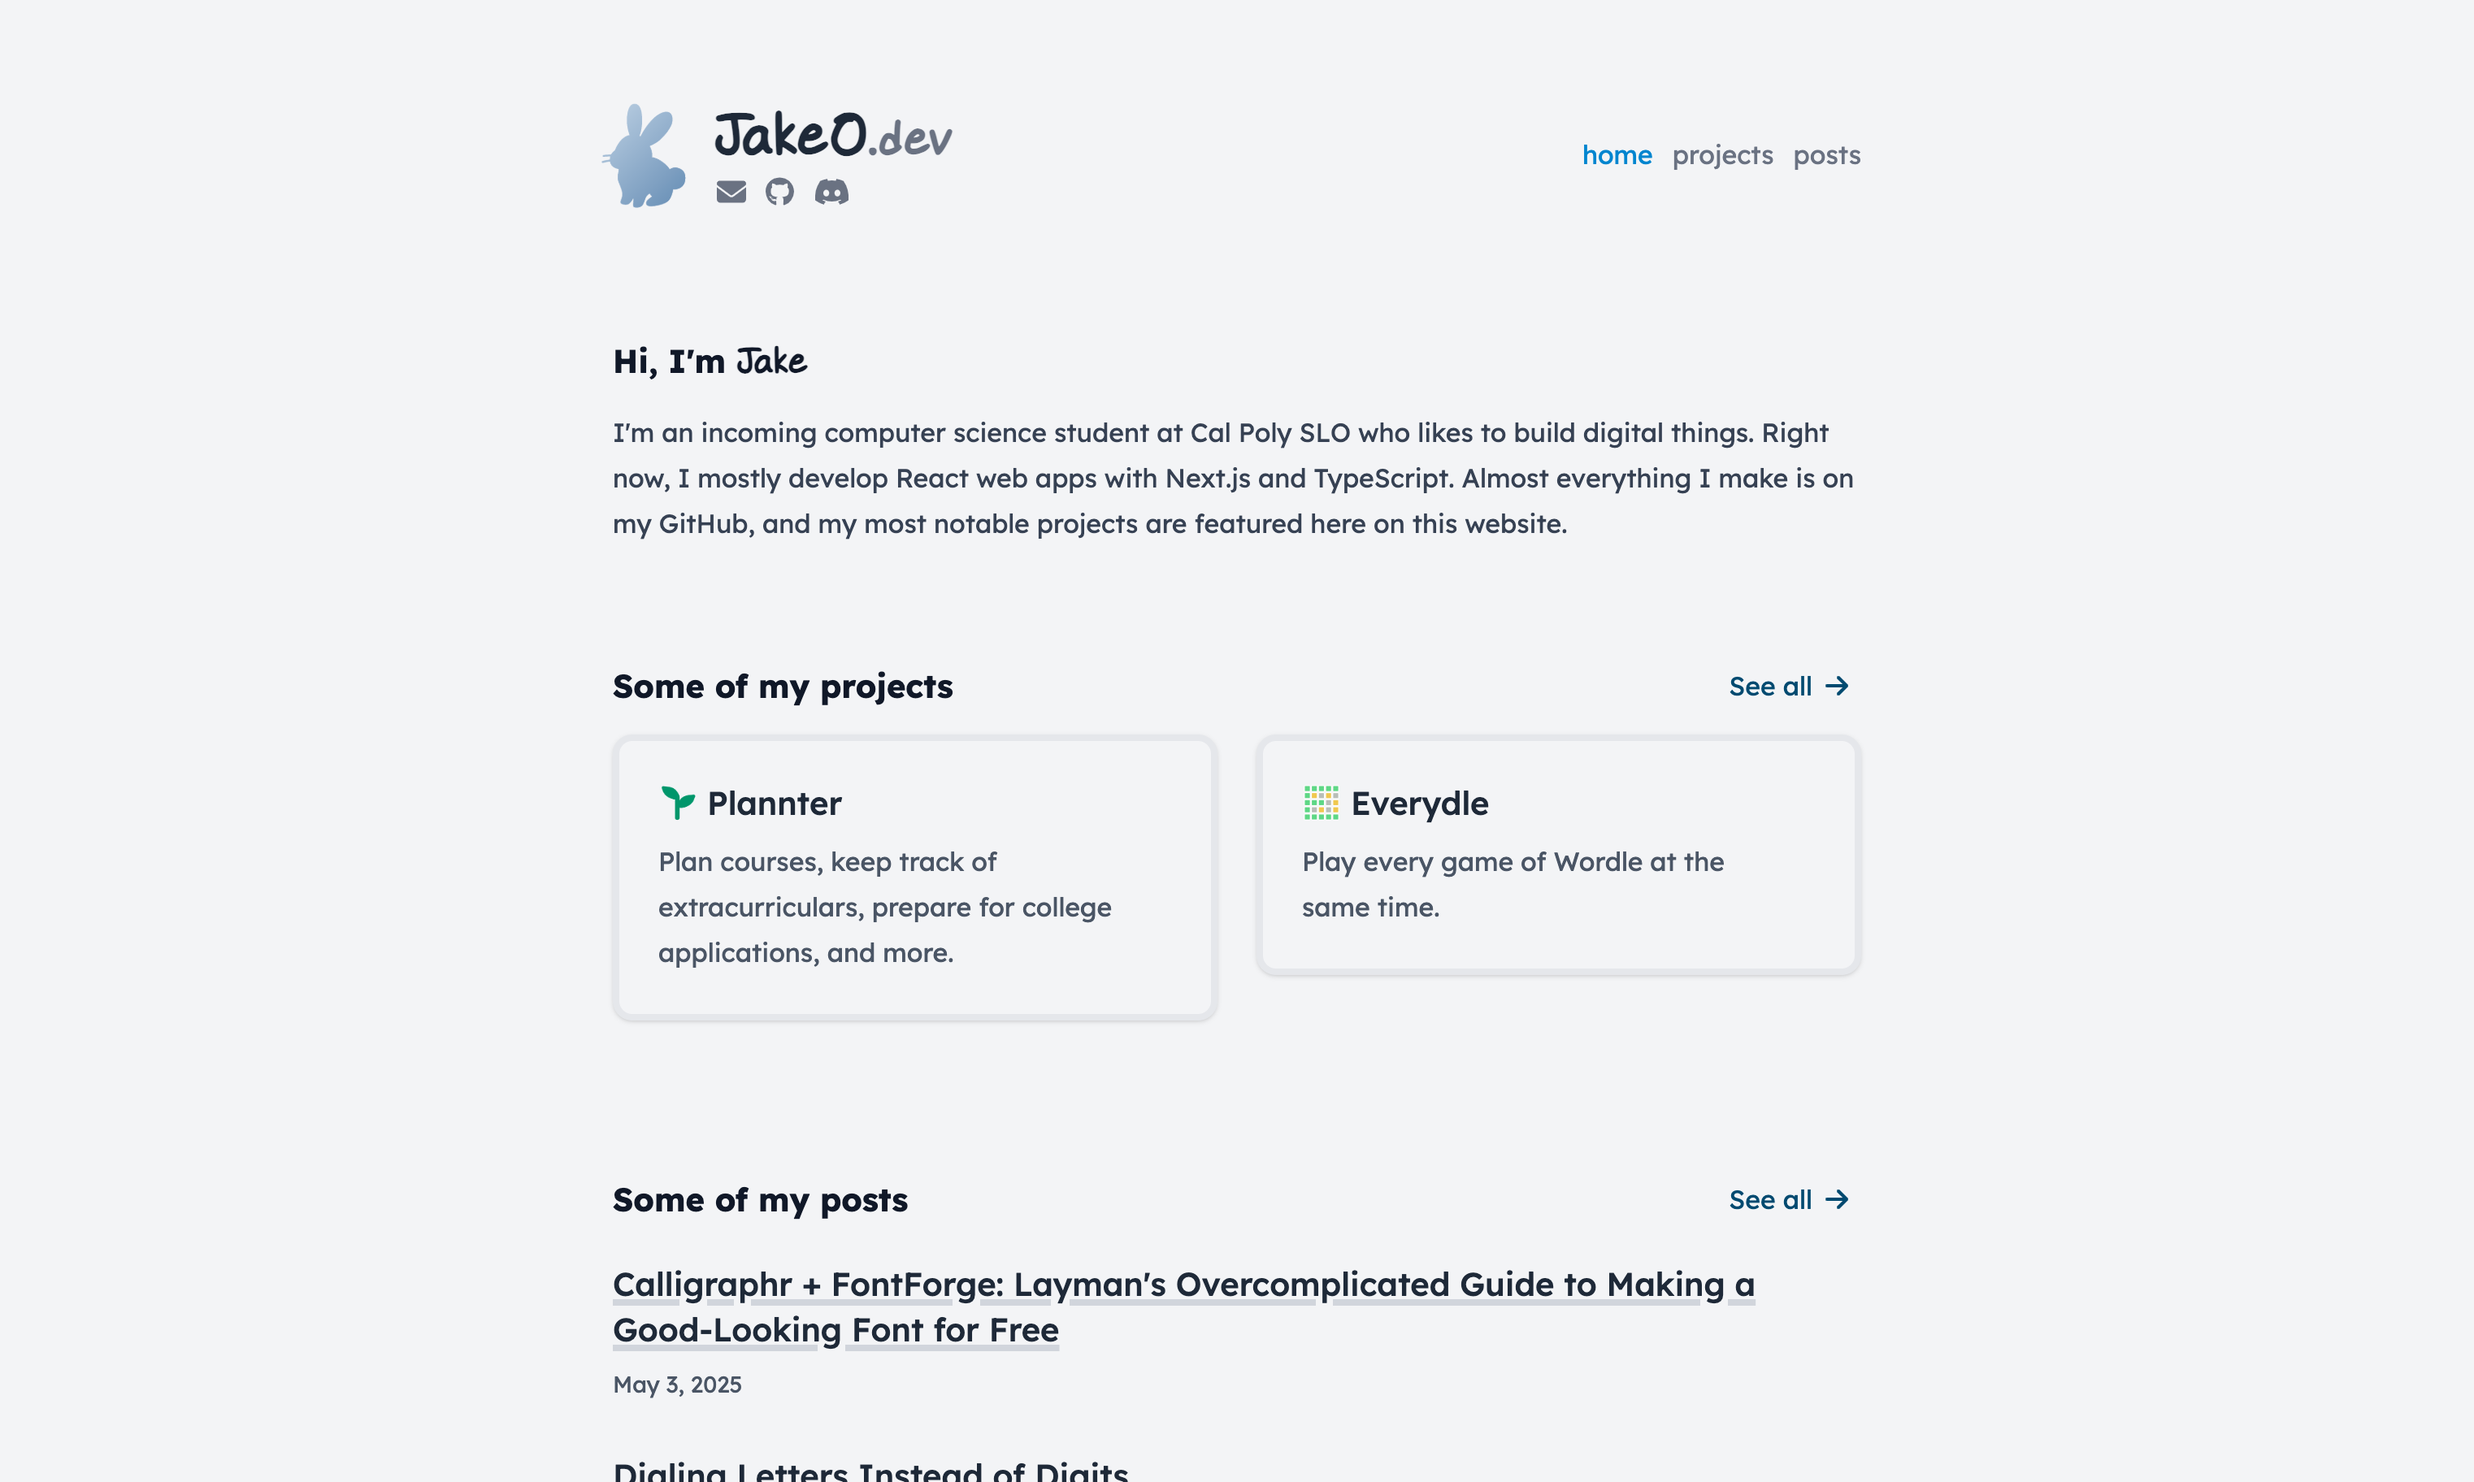
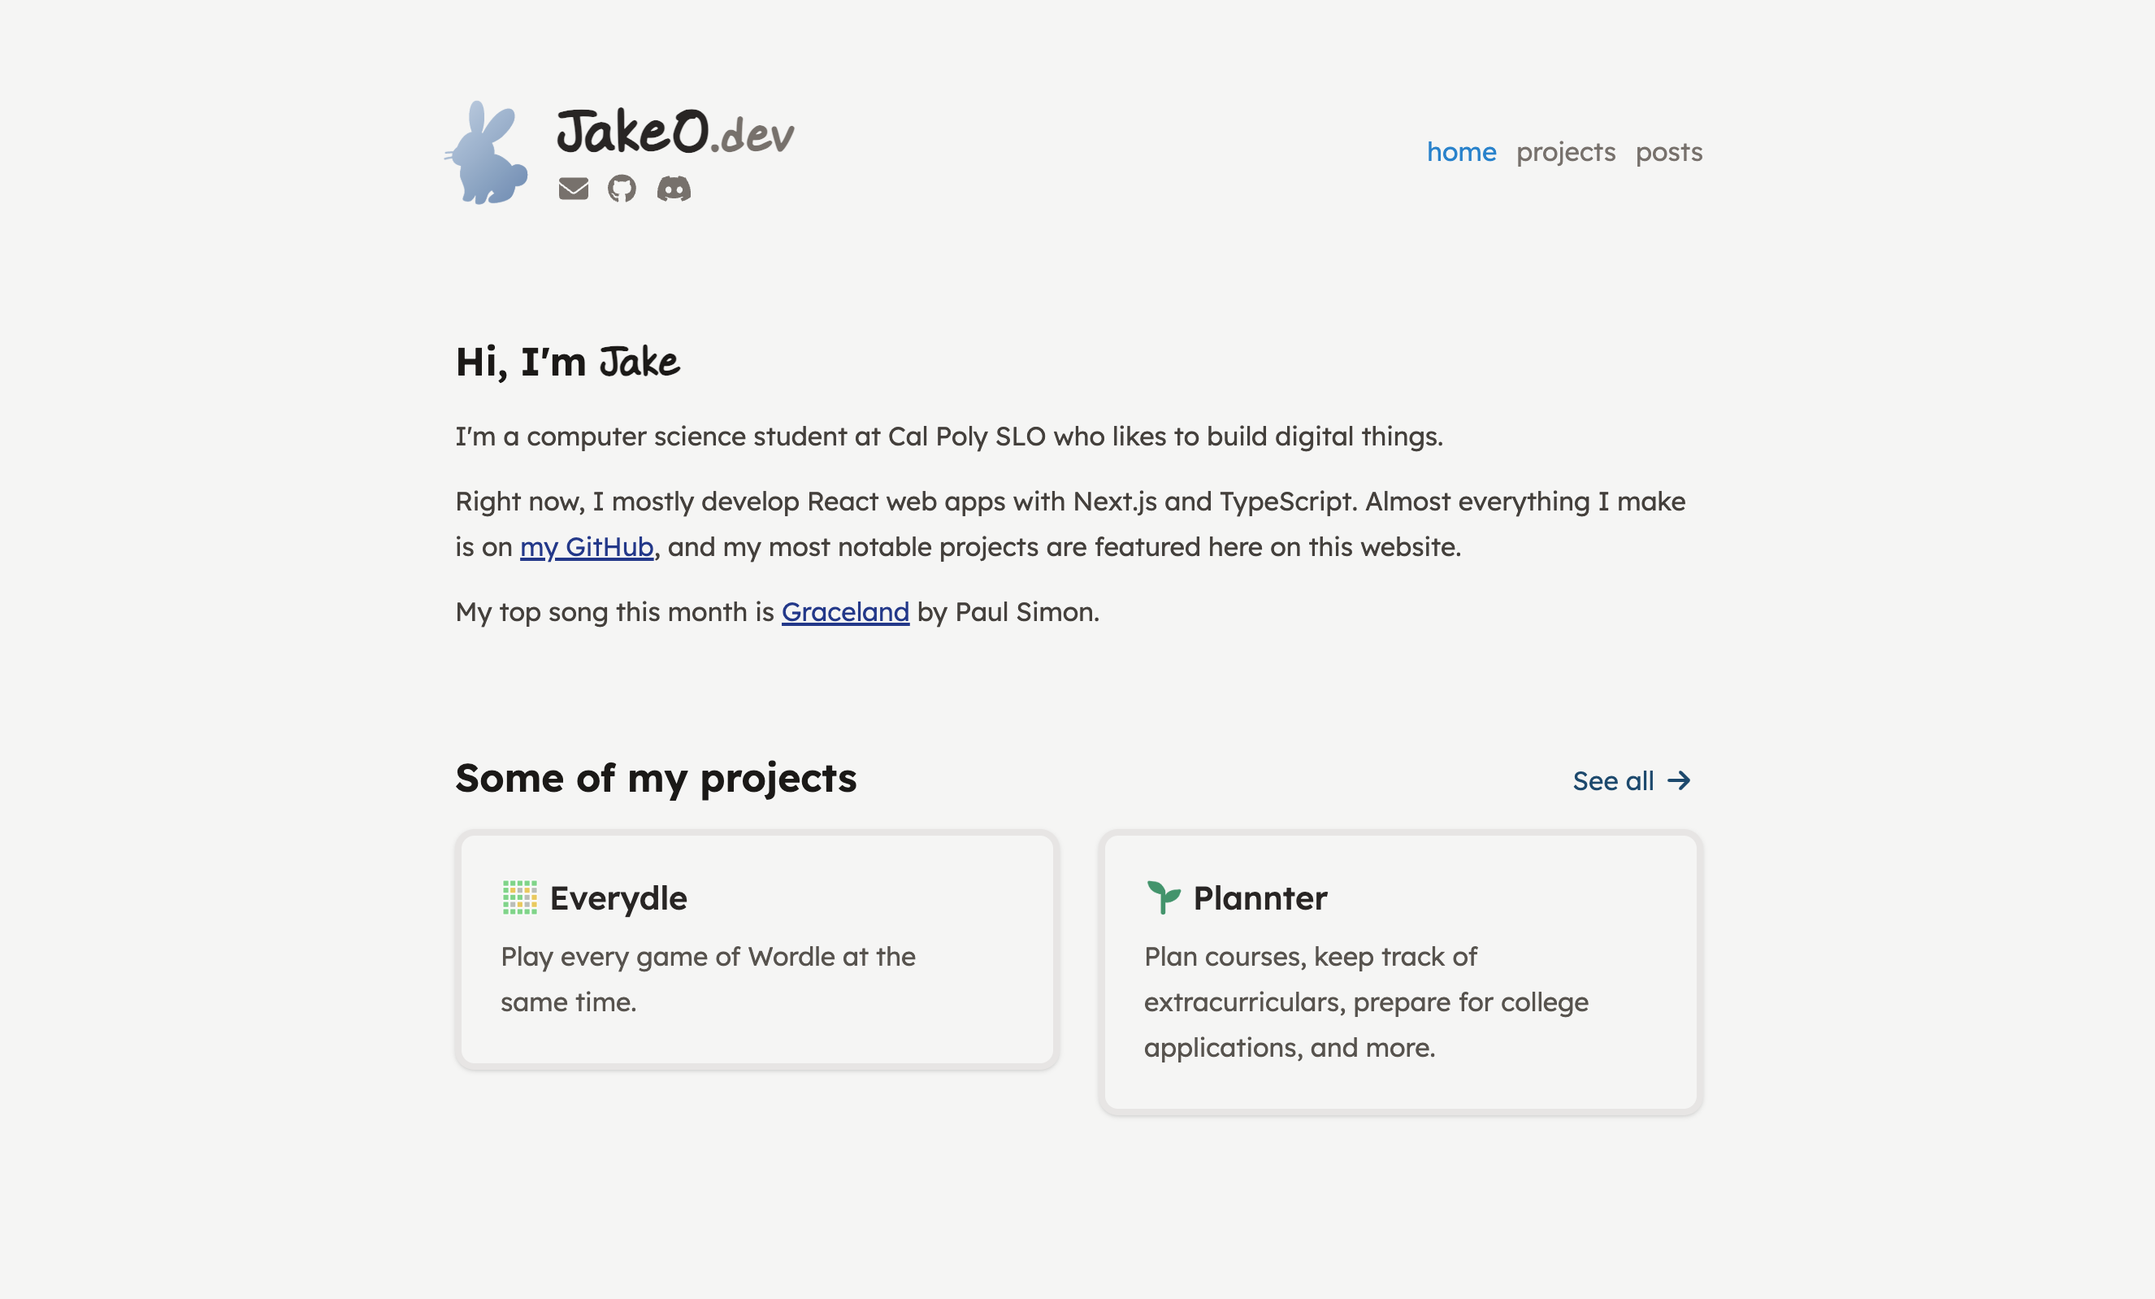
minor design improvements

diff --git a/src/pages/index.tsx b/src/pages/index.tsx
@@ -1,6 +1,5 @@
 import CommonHead from "@/components/CommonHead";
 import Project from "@/components/projects/Project";
-import Post from "@/components/blog/Post";
 import Link from "next/link";
 import TopTrack from "@/components/TopTrack";
 
@@ -66,7 +65,7 @@ export default function Home() {
         <h1>Some of my projects</h1>
         <Link
           href="/projects"
-          className="text internal-link ml-auto px-2 text-sm font-normal no-underline md:text-base"
+          className="text internal-link ml-auto px-2 text-sm no-underline md:text-base"
         >
           <span>See all</span>
           <FontAwesomeIcon icon={faArrowRight} className="ml-2" />
@@ -96,42 +95,6 @@ export default function Home() {
           />
         </div>
       </div>
-
-      {/* posts */}
-      <div className="sub0title flex items-center md:items-end">
-        <h1>Some of my posts</h1>
-        <Link
-          href="/blog"
-          className="text internal-link ml-auto px-2 text-sm font-normal no-underline md:text-base"
-        >
-          <span>See all</span>
-          <FontAwesomeIcon icon={faArrowRight} className="ml-2" />
-        </Link>
-      </div>
-
-      <Post
-        name="Calligraphr + FontForge: Layman's Overcomplicated Guide to Making a Good-Looking Font for Free"
-        desc={`In December 2024, I designed a typeface based on my handwriting using both Calligraphr and FontForge. Calligraphr is a great service that lets you create your own font, but it's really only useful if you upgrade to the Pro version. So instead of spending...`}
-        releaseDate="May 3, 2025"
-        updateDate=""
-        fadeDesc={true}
-        img={require("/public/images/calligraphr-fontforge-laymans-overcomplicated-guide-to-making-a-good-looking-font-for-free/thumbnail.png")}
-        imgAlt="Different letters in different fonts kerned at different amounts"
-        showImg={false}
-        href="/blog/calligraphr-fontforge-laymans-overcomplicated-guide-to-making-a-good-looking-font-for-free"
-      />
-
-      <Post
-        name="Dialing Letters Instead of Digits"
-        desc={`In February 2023, I introduced the first iteration of Cifra, my website that generates as many vanity phone numbers that match an inputted phone number as fast as possible. Over the past year and a half, I've found different ways to improve the efficiency and...`}
-        releaseDate="August 18, 2024"
-        updateDate=""
-        fadeDesc={true}
-        img={require("/public/images/dialing-letters-instead-of-digits/thumbnail.png")}
-        imgAlt="Overlapping lists of random words and numbers"
-        showImg={false}
-        href="/blog/dialing-letters-instead-of-digits"
-      />
     </>
   );
 }

diff --git a/src/styles/globals.css b/src/styles/globals.css
@@ -2,27 +2,27 @@
 
 @layer components {
   .sub0title {
-    @apply mt-14 py-4 text-left text-2xl font-bold text-pretty text-stone-900;
+    @apply mt-14 py-4 text-left text-2xl font-semibold text-pretty text-stone-900;
   }
 
   .sub1title {
-    @apply mt-14 py-4 text-left text-2xl font-bold text-pretty text-stone-900;
+    @apply mt-14 py-4 text-left text-2xl font-semibold text-pretty text-stone-900;
   }
 
   .sub2title {
-    @apply mt-8 py-4 text-left text-lg font-semibold text-pretty text-stone-900;
+    @apply mt-8 py-4 text-left text-lg font-medium text-pretty text-stone-900;
   }
 
   .sub3title {
-    @apply mt-4 py-4 text-left text-base font-medium text-pretty text-stone-900;
+    @apply mt-4 py-4 text-left text-base font-normal text-pretty text-stone-900;
   }
 
   .sub0title-subtext {
-    @apply mt-4 py-2 text-left font-medium text-pretty text-stone-700;
+    @apply mt-4 py-2 text-left font-normal text-pretty text-stone-700;
   }
 
   .text {
-    @apply mb-3 text-left text-base leading-7 text-pretty text-stone-700 last:mb-0;
+    @apply mb-3 text-left text-base leading-7 font-[350] text-pretty text-stone-700 last:mb-0;
   }
 
   .subtext {

diff --git a/src/components/ImageCarousel.tsx b/src/components/ImageCarousel.tsx
@@ -23,11 +23,11 @@ export default function ImageCarousel(props: {
     );
   };
 
-  // auto go to next image every 5 seconds
+  // auto go to next image every 4 seconds
   useEffect(() => {
     const interval = setInterval(() => {
       nextSlide();
-    }, 5000);
+    }, 4000);
 
     return () => clearInterval(interval);
   }, [currentIndex]);
@@ -40,7 +40,7 @@ export default function ImageCarousel(props: {
             key={i}
             src={image.src}
             alt={props.images[i].alt}
-            className={`scale-90 rounded-md object-cover shadow-md ${props.imagePosition} transition-opacity duration-300 ${
+            className={`scale-90 rounded-md object-cover shadow-md ${props.imagePosition} transition-opacity duration-1000 ${
               i == currentIndex ? "opacity-100" : "opacity-0"
             }`}
             fill

diff --git a/src/components/blog/PostContents.tsx b/src/components/blog/PostContents.tsx
@@ -2,7 +2,7 @@ export default function Contents(props: { subtitles: string[] }) {
   return (
     <div className="top-6 flex-[0.35] self-start lg:sticky lg:block xl:w-0 xl:flex-[0]">
       <p className="sub2title mb-0 block lg:hidden">Contents</p>
-      <div className="mb-16 grid grid-cols-3 gap-x-6 gap-y-2 md:grid-cols-4 lg:mt-6 lg:-mr-20 lg:ml-10 lg:block lg:rounded-lg lg:bg-stone-200/70 lg:p-5 xl:-mr-60 2xl:-mr-80">
+      <div className="mb-16 grid grid-cols-3 gap-x-6 gap-y-2 md:grid-cols-4 lg:mt-6 lg:-mr-20 lg:ml-10 lg:block lg:rounded-lg lg:bg-stone-200/60 lg:p-5 xl:-mr-60 2xl:-mr-80">
         <p className="sub2title mt-0 hidden pt-0 lg:block">Contents</p>
         {props.subtitles.map((subtitle, index) => (
           <a

diff --git a/src/pages/_document.tsx b/src/pages/_document.tsx
@@ -4,7 +4,7 @@ export default function Document() {
   return (
     <Html lang="en">
       <Head />
-      <body className="mx-auto max-w-[52rem] bg-stone-100 px-8 pb-16 text-center text-stone-800 transition-all selection:bg-blue-950/80 selection:text-white md:pb-20">
+      <body className="mx-auto max-w-[52rem] bg-stone-100 px-8 pb-16 text-center font-[350] text-stone-800 transition-all selection:bg-blue-950/80 selection:text-white md:pb-20">
         <Main />
         <NextScript />
       </body>
